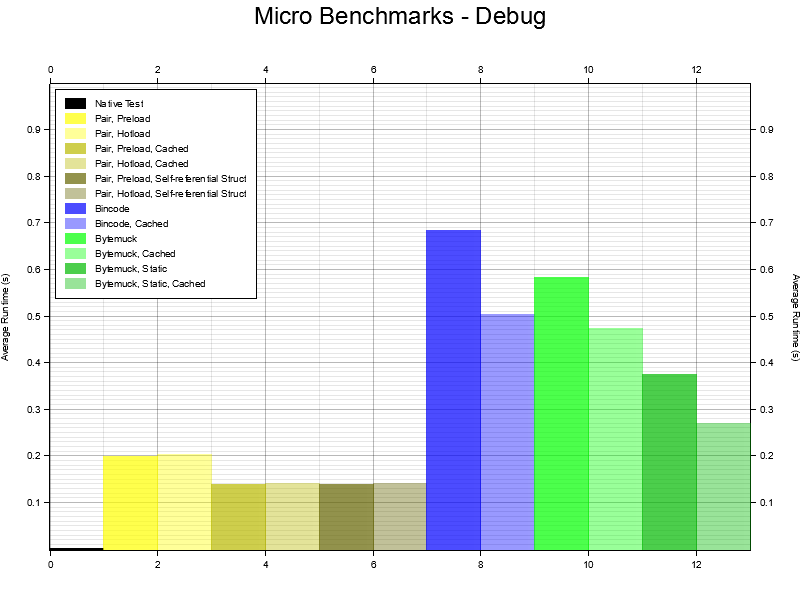
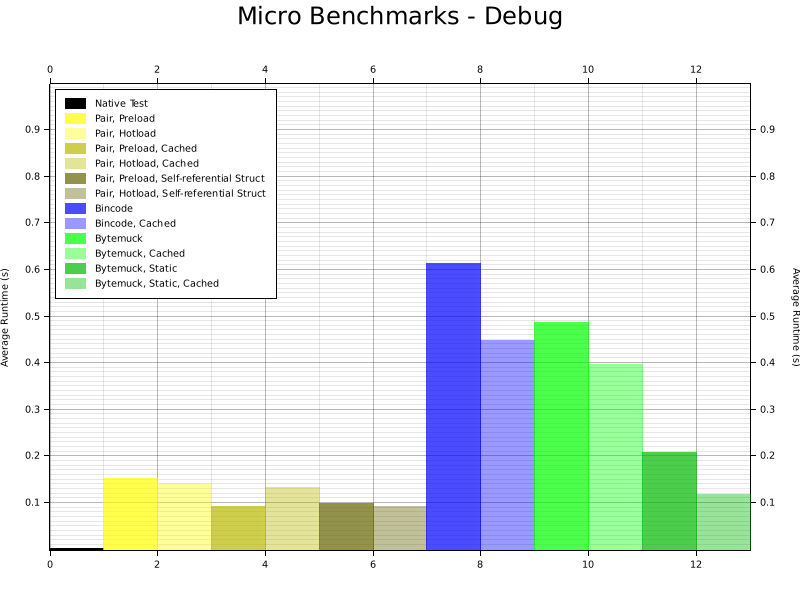
testing rust wasmer with kernel-wasmer

diff --git a/benchmark/src/main.rs b/benchmark/src/main.rs
@@ -36,7 +36,7 @@ fn main() {
     benchmarks.push(("Bytemuck, Static".to_string(),bytemuck_test::bytemuck_fixed_test));
     benchmarks.push(("Bytemuck, Static, Cached".to_string(),bytemuck_test::bytemuck_cached_fixed_test));
 
-    let runs = 1000;
+    let runs = 5;
 
     let store = Store::default();
 
